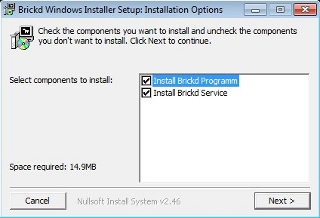
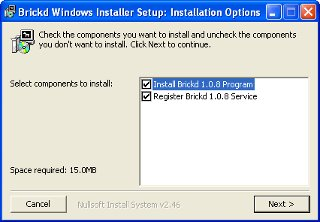
Describe how to check brickd version

diff --git a/source/Software/Brickd.rst b/source/Software/Brickd.rst
@@ -40,9 +40,9 @@ Click on the downloaded file, this should open the installer:
    :target: ../_images/Screenshots/brickd_windows_1.jpg
 
 You can choose the actions of the installer:
- 
- * **Install Brickd Programm** will copy the program files
- * **Install Brickd Service** will install it as a Windows service
+
+ * **Install Brickd Program** will copy the program files
+ * **Register Brickd Service** will install it as a Windows service
 
 Typically you want the installer to perform both tasks.
 Click on "Next" to start the installation process.
@@ -101,7 +101,7 @@ Choose the driver location manually.
    :align: center
    :target: ../_images/Screenshots/brickd_windows_driver_3.jpg
 
-You will find them in your Brickd programm directory in the "drivers" folder.
+You will find them in your Brickd program directory in the "drivers" folder.
 
 .. image:: /Images/Screenshots/brickd_windows_driver_4_small.jpg
    :scale: 100 %
@@ -221,3 +221,24 @@ If for some reason brickd doesn't run or it has crashed, you can start it
 from the terminal with::
 
  sudo launchctl start com.tinkerforge.brickd
+
+
+Checking installed version
+--------------------------
+
+Since Brick Daemon version 1.0.8 you can check which Brick Daemon is currently
+installed with the `--version` commandline argument:
+
+ * Windows:
+
+   .. code-block:: none
+
+     "C:\Program Files\Tinkerforge\Brickd\brickd_windows.exe" --version
+
+ * Linux::
+
+    brickd --version
+
+ * Mac OS X::
+
+    /usr/libexec/brickd.app/Contents/MacOS/brickd_macosx --version
